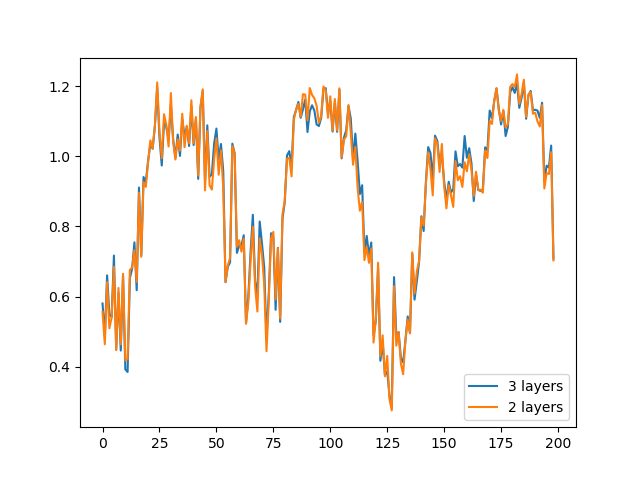
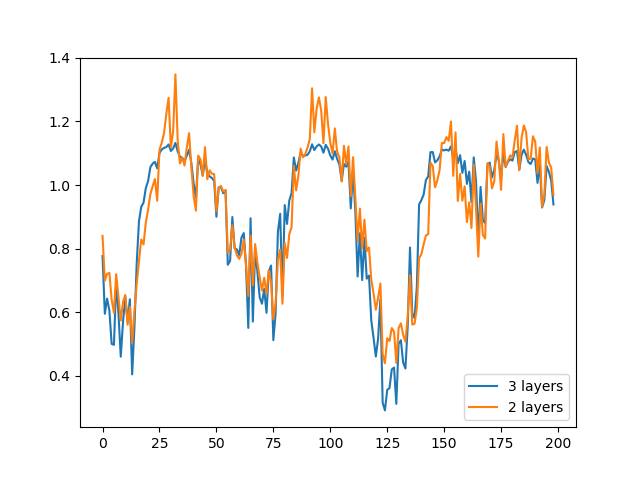
new pics

diff --git a/Lab1/part431.py b/Lab1/part431.py
@@ -48,7 +48,7 @@ def main():
                                                alpha=1/(10**alph),
                                                early_stopping=True)
             est.fit(train_in, train_out)
-            weights = np.concatenate((weights,est.coefs_[0].flatten(),est.coefs_[0].flatten()))
+            weights = np.concatenate((weights,est.coefs_[0].flatten(),est.coefs_[1].flatten()))
 
     #
             pred = est.predict(test_in)
@@ -64,10 +64,11 @@ def main():
 
         plt.xlabel('Weight value')
         plt.title('Histogram of weights for alpha=' + str(1/(10**alph)))
-        plt.ylim([0,105])
+        plt.ylim([0,55])
         plt.xlim([-6,6])
 
     plt.figure(11)
+    plt.ylim([0,0.02])
 
     for alph in range(2,6):
 
@@ -98,8 +99,9 @@ def main():
     est.fit(train_in, train_out)
     pred = est.predict(test_in)
     plt.figure(10)
-    plt.plot(pred)
-    plt.plot(test_out)
+    plt.plot(pred,label='Prediction')
+    plt.plot(test_out,label='Real output')
+    plt.legend(loc='upper left')
 
 
     plt.show()

diff --git a/Lab1/part432.py b/Lab1/part432.py
@@ -97,7 +97,7 @@ def main():
         test_out = test_out + np.random.normal(0,noise,199)
 
         for alph in range(2,6):
-            est = MLPRegressor(hidden_layer_sizes=(6,3,), #3???
+            est = MLPRegressor(hidden_layer_sizes=(6,6,), #???
                                                activation='logistic',
                                                solver='adam',
                                                learning_rate='adaptive',
@@ -159,7 +159,7 @@ def main():
 
 
     start = time.time()
-    est2 = MLPRegressor(hidden_layer_sizes=(6,7,), #???
+    est2 = MLPRegressor(hidden_layer_sizes=(6,6,), #???
                                        activation='logistic',
                                        solver='adam',
                                        learning_rate='adaptive',
